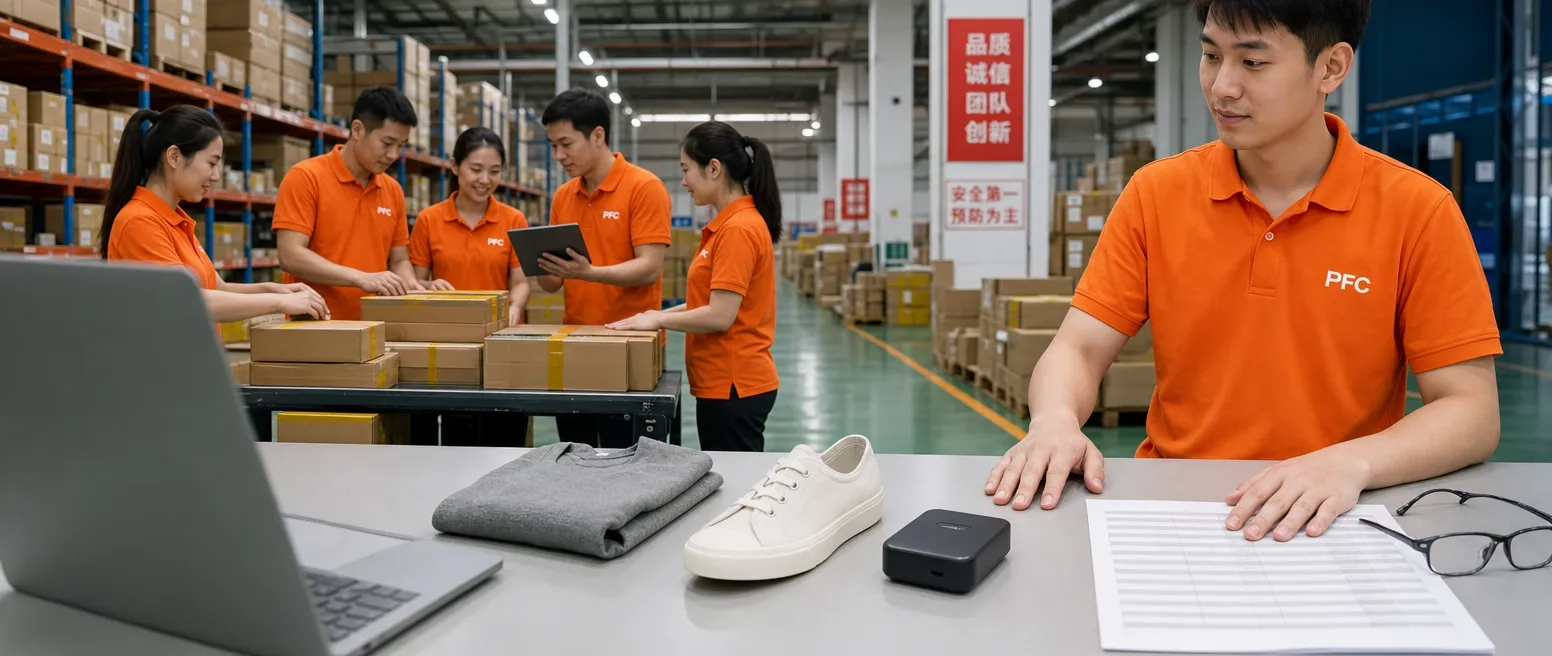
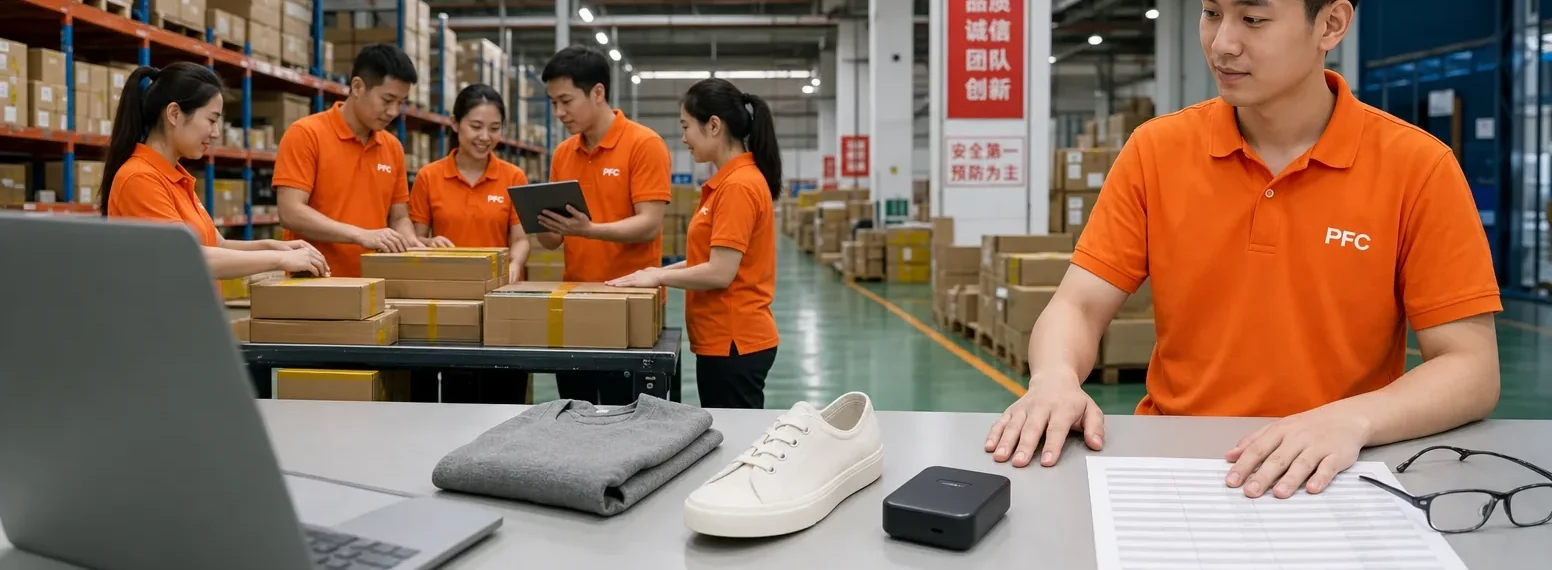
Publish the three customs posts; sweep and link the multi-channel page
Images arrived, so the three held posts go live: noindex removed, added
to sitemap.xml, blog cards generated. Sitemap now 70 URLs.

Cropped the three heroes before publishing. They were supplied at
1552x656, a 2.37 ratio, but the pages declare 1200x440 and the existing
59 blog heroes are 2070x760, a 2.72 ratio. Left alone that mismatch
would have distorted the images or shifted layout on load. Centre
cropped to 1552x570, which lands on 2.723 and matches the declared
attributes. The briefs had asked for the top and bottom 20% to be kept
clear, so nothing of substance was lost. Infographics needed no change,
912x1136 against a declared 1200x1500 is within a 0.3% rounding
difference.

Checked the renders rather than assuming: staff are Chinese, in orange
polos with the chest logo, on a green epoxy floor with kraft cartons and
red Chinese signage, which is what the style guide asks for.
Infographic text is accurate with no garbled characters.

Multi-channel page had only one body link, which was too thin. Added
five contextual ones to crowdfunding, TikTok Shop, Amazon, Kickstarter
and D2C ecommerce fulfillment, all in visible HTML rather than schema.

Did not add a quick-answer blockquote to the multi-channel page. No
service page on the site uses that pattern, and the page already answers
the omnichannel question directly in FAQPage schema, which is a stronger
extraction signal than a blockquote.

Swept all four pages: titles 45-62 chars, metas 156-160, one H1 each,
[…]

diff --git a/multi-channel-fulfillment-china.html b/multi-channel-fulfillment-china.html
@@ -405,7 +405,7 @@ html body div.obar,html body div.obar em,html body div.obar strong,html body div
  <h1>One warehouse.<br/><span class="hi">Every channel you sell on.</span></h1>
  <div class="hbyline">Updated <time datetime="2026-08-31">August 2026</time> &middot; By <strong>China Fulfillment International</strong> Shenzhen</div>
  <p class="hook">Selling on Shopify and Amazon and TikTok Shop usually means the same product living in three separate inventory pools, three separate order queues, and a spreadsheet somewhere trying to keep them from contradicting each other. That is how sellers oversell a bestseller the week it actually starts moving.</p>
- <p class="sub">We run one physical stock pool in Shenzhen behind every channel you connect. Sell it on Shopify, TikTok Shop, Amazon or as a crowdfunding reward, and the same warehouse fulfils it from the same shelf, with inventory that updates everywhere the moment a unit ships.</p>
+ <p class="sub">We run one physical stock pool in Shenzhen behind every channel you connect. Sell it on Shopify, TikTok Shop, Amazon or as a <a href="china-crowdfunding-fulfillment.html">crowdfunding reward</a>, and the same warehouse fulfils it from the same shelf, with inventory that updates everywhere the moment a unit ships.</p>
  <div class="hbtns">
  <a class="bp" href="https://www.china-fulfillment.com/Contact-Us.html">Connect Your Channels &#8594;</a>
  <a class="bg" href="https://www.china-fulfillment.com/Contact-Us.html">Talk to an Expert</a>
@@ -486,8 +486,8 @@ html body div.obar,html body div.obar em,html body div.obar strong,html body div
  <tbody>
  <tr><td>Shopify</td><td class="rate-low">App or direct API, 1&#8211;2 days</td></tr>
  <tr><td>WooCommerce</td><td class="rate-low">Plugin, 1&#8211;2 days</td></tr>
- <tr><td>Amazon Seller Central</td><td class="rate-mid">SP-API, 2&#8211;3 days</td></tr>
- <tr><td>TikTok Shop</td><td class="rate-mid">API or file feed</td></tr>
+ <tr><td><a href="amazon-fulfillment.html">Amazon Seller Central</a></td><td class="rate-mid">SP-API, 2&#8211;3 days</td></tr>
+ <tr><td><a href="tiktok-shop-fulfillment-from-china-2026.html">TikTok Shop</a></td><td class="rate-mid">API or file feed</td></tr>
  <tr><td>eBay</td><td class="rate-mid">API</td></tr>
  <tr><td>Crowdfunding (Kickstarter, Indiegogo)</td><td class="rate-low">Backer CSV upload</td></tr>
  <tr><td>Custom or unlisted platform</td><td class="rate-high">REST API, or CSV/XML/XLS/FTP</td></tr>
@@ -511,7 +511,7 @@ html body div.obar,html body div.obar em,html body div.obar strong,html body div
  <div class="sol-card">
  <div class="sol-num">Yes</div>
  <h3>Every DTC and marketplace channel, one stock pool</h3>
- <p>Shopify, WooCommerce, TikTok Shop, Amazon Seller Central, eBay and crowdfunding rewards, all fulfilled from the same Shenzhen warehouse against the same inventory count.</p>
+ <p>Shopify, WooCommerce, TikTok Shop, Amazon Seller Central, eBay and crowdfunding rewards, all fulfilled from the same Shenzhen warehouse against the same inventory count, on our standard <a href="ecommerce-fulfillment.html">D2C eCommerce fulfillment</a> terms.</p>
  <div class="sol-result">This is what most sellers mean by omnichannel</div>
  </div>
  <div class="sol-card">
@@ -523,7 +523,7 @@ html body div.obar,html body div.obar em,html body div.obar strong,html body div
  <div class="sol-card">
  <div class="sol-num">Yes</div>
  <h3>One inventory pool for launches and ongoing sales together</h3>
- <p>A Kickstarter reward tier and a Shopify pre-order draw from the same physical units, so a campaign does not need its own separate stock pool.</p>
+ <p>A <a href="crowdfunding-fulfillment-kickstarter-indiegogo-china.html">Kickstarter reward tier</a> and a Shopify pre-order draw from the same physical units, so a campaign does not need its own separate stock pool.</p>
  <div class="sol-result">No more splitting inventory for a launch</div>
  </div>
  <div class="sol-card">

diff --git a/blog.html b/blog.html
@@ -231,6 +231,40 @@ html body div.obar,html body div.obar em,html body div.obar strong,html body div
  <div class="w">
  <div class="blog-grid" id="blogGrid">
 
+      <!-- NEW: How to Get a Binding Ruling from CBP, and When It Is Worth It -->
+      <a href="cbp-binding-ruling-guide-2026.html" class="post" data-cat="ecom">
+        <div class="post-img"><img src="/images/blog/cbp-binding-ruling-guide-2026.webp" alt="How to Get a Binding Ruling from CBP, and When It Is Worth It" width="400" height="200" loading="lazy" decoding="async"/></div>
+        <div class="post-body">
+          <div class="post-cat">Customs</div>
+          <h3>How to Get a Binding Ruling from CBP, and When It Is Worth It</h3>
+          <p>A binding ruling turns a classification argument into a documented position at every US port. Search CROSS first, what t...</p>
+          <div class="post-meta"><span>September 2026</span><span class="post-read">Read &rarr;</span></div>
+        </div>
+      </a>
+
+      <!-- NEW: The HTS Classification Mistakes That Quietly Cost Importers Money -->
+      <a href="hts-classification-mistakes-importers-2026.html" class="post" data-cat="ecom">
+        <div class="post-img"><img src="/images/blog/hts-classification-mistakes-importers-2026.webp" alt="The HTS Classification Mistakes That Quietly Cost Importers Money" width="400" height="200" loading="lazy" decoding="async"/></div>
+        <div class="post-body">
+          <div class="post-cat">Customs</div>
+          <h3>The HTS Classification Mistakes That Quietly Cost Importers Money</h3>
+          <p>Most duty lost to classification is lost to plain error, not missed cleverness. The category traps, how the GRI rules de...</p>
+          <div class="post-meta"><span>September 2026</span><span class="post-read">Read &rarr;</span></div>
+        </div>
+      </a>
+
+      <!-- NEW: Tariff Engineering: Where the Legal Line Actually Sits -->
+      <a href="tariff-engineering-legal-line-2026.html" class="post" data-cat="ecom">
+        <div class="post-img"><img src="/images/blog/tariff-engineering-legal-line-2026.webp" alt="Tariff Engineering: Where the Legal Line Actually Sits" width="400" height="200" loading="lazy" decoding="async"/></div>
+        <div class="post-body">
+          <div class="post-cat">Customs</div>
+          <h3>Tariff Engineering: Where the Legal Line Actually Sits</h3>
+          <p>Tariff engineering is lawful and has been since 1882. The cases that define it, the $365m settlement showing where it fa...</p>
+          <div class="post-meta"><span>September 2026</span><span class="post-read">Read &rarr;</span></div>
+        </div>
+      </a>
+
+
 
 
 

diff --git a/hts-classification-mistakes-importers-2026.html b/hts-classification-mistakes-importers-2026.html
@@ -6,7 +6,6 @@
 <title>HTS Classification Mistakes Costing Importers</title>
 <meta name="description" content="Most duty lost to classification is lost to plain error, not missed cleverness. The category traps, how the GRI rules decide, and how to audit your own codes."/>
 <link rel="canonical" href="https://www.china-fulfillment.com/hts-classification-mistakes-importers-2026.html"/>
-<meta name="robots" content="noindex,nofollow"/><!-- UNPUBLISHED: remove this line to publish -->
 <meta property="og:title" content="The HTS Classification Mistakes That Quietly Cost Importers Money"/>
 <meta property="og:description" content="Most duty lost to classification is lost to plain error, not missed cleverness. The category traps, how the GRI rules decide, and how to audit your own codes."/>
 <meta property="og:image" content="https://www.china-fulfillment.com/images/blog/hts-classification-mistakes-importers-2026.webp"/>

diff --git a/tariff-engineering-legal-line-2026.html b/tariff-engineering-legal-line-2026.html
@@ -6,7 +6,6 @@
 <title>Tariff Engineering: Where the Legal Line Sits</title>
 <meta name="description" content="Tariff engineering is lawful and has been since 1882. The cases that define it, the $365m settlement showing where it fails, and a test before you redesign."/>
 <link rel="canonical" href="https://www.china-fulfillment.com/tariff-engineering-legal-line-2026.html"/>
-<meta name="robots" content="noindex,nofollow"/><!-- UNPUBLISHED: remove this line to publish -->
 <meta property="og:title" content="Tariff Engineering: Where the Legal Line Actually Sits"/>
 <meta property="og:description" content="Tariff engineering is lawful and has been since 1882. The cases that define it, the $365m settlement showing where it fails, and a test before you redesign."/>
 <meta property="og:image" content="https://www.china-fulfillment.com/images/blog/tariff-engineering-legal-line-2026.webp"/>

diff --git a/cbp-binding-ruling-guide-2026.html b/cbp-binding-ruling-guide-2026.html
@@ -6,7 +6,6 @@
 <title>CBP Binding Ruling: How to Request One (2026)</title>
 <meta name="description" content="A binding ruling turns a classification argument into a documented position at every US port. Search CROSS first, what to include, timelines, and the catch."/>
 <link rel="canonical" href="https://www.china-fulfillment.com/cbp-binding-ruling-guide-2026.html"/>
-<meta name="robots" content="noindex,nofollow"/><!-- UNPUBLISHED: remove this line to publish -->
 <meta property="og:title" content="How to Get a Binding Ruling from CBP, and When It Is Worth It"/>
 <meta property="og:description" content="A binding ruling turns a classification argument into a documented position at every US port. Search CROSS first, what to include, timelines, and the catch."/>
 <meta property="og:image" content="https://www.china-fulfillment.com/images/blog/cbp-binding-ruling-guide-2026.webp"/>
